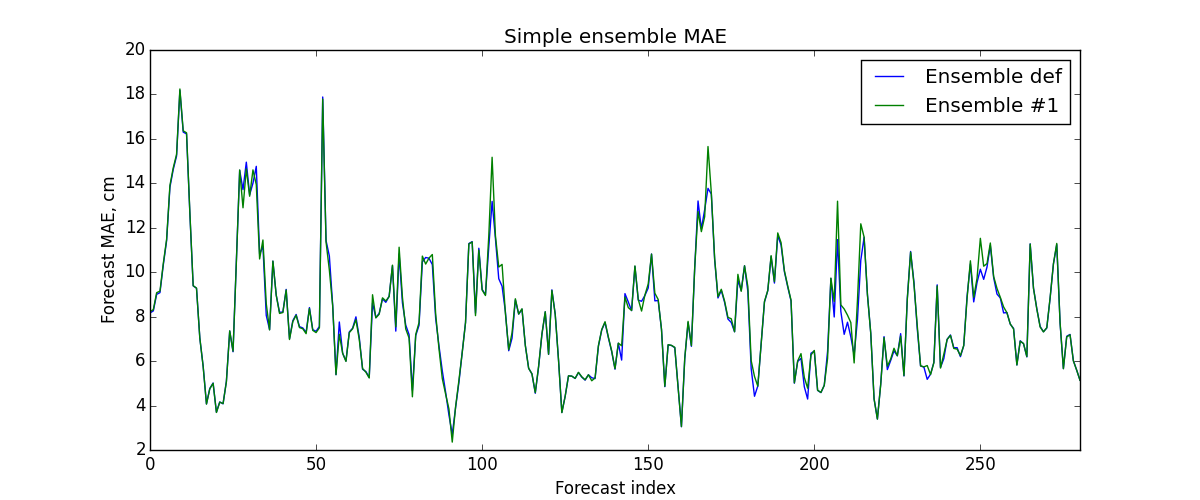
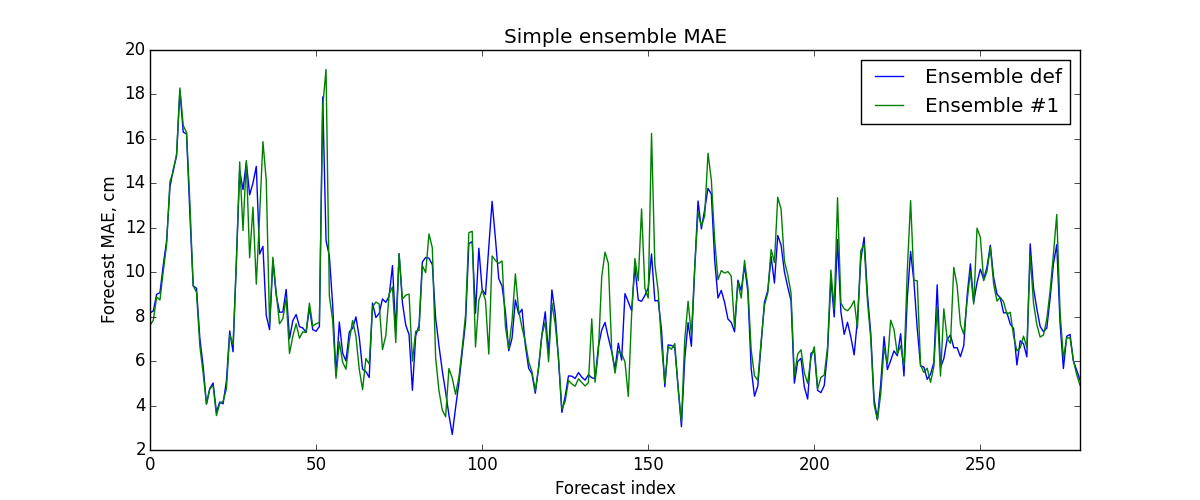
V scaling, height score

diff --git a/peaks-compare.py b/peaks-compare.py
@@ -1,7 +1,9 @@
+from scipy.stats import gaussian_kde
 import numpy as np
 import scipy.interpolate as interp
 import matplotlib.pyplot as plt
 import math as mt
+from sklearn.neighbors.kde import KernelDensity
 
 s1 = np.loadtxt('data\\ensemble-forecasts\\2013102012-BSM-WOWC-HIRLAM-S1.txt')
 s2 = np.loadtxt('data\\ensemble-forecasts\\2013102012-BALTP-90M-GFS-S1.txt')[:, 0:61]
@@ -45,6 +47,17 @@ def lse_coeff(fcs, start_index, stop_index, w):
     b[len(fcs)] = np.sum(w*m_fc[start_index:stop_index+1, 1:T+1])
     a[len(fcs), len(fcs)] = np.sum(w)
     return np.linalg.solve(a, b)
+
+
+def forecast_peak_error(fc, msk_l):
+    msk_b = np.ones(len(fc), dtype=bool)
+    msk_b[msk_l] = 0
+    max_l_err = np.amax(fc, axis=1) - np.amax(m_fc, axis=1)
+    max_t_err = (np.argmax(fc, axis=1) - np.argmax(m_fc, axis=1)).astype(float)
+    msk_add = (max_l_err > 20) | (max_l_err < -20) | (max_t_err > 10) | (max_t_err < -10)
+    max_l_err[msk_b | msk_add] = np.nan
+    max_t_err[msk_b | msk_add] = np.nan
+    return np.vstack((max_t_err, max_l_err))
 
 
 def forecast_wmae(fc, pl):
@@ -92,7 +105,6 @@ plt.savefig('pics\\simple-ensemble-wmae.png')
 plt.close()
 
 
-
 def transform_forecast(fc, original_peak, target_peak, scale_vertical):
     # Full scale
     # t_src_nodes = [-1, np.round(original_peak[1] - original_peak[2] * original_peak[3]), np.round(original_peak[1]), np.round(original_peak[1] + original_peak[2] * (1.0 - original_peak[3])), T + 1]
@@ -104,16 +116,36 @@ def transform_forecast(fc, original_peak, target_peak, scale_vertical):
     p_end = min(p_end, T)
     t_src_nodes = [-1, p_start, np.round(original_peak[1]), p_end, T + 1]
     t_dst_nodes = [-1, p_start, np.round(target_peak[1]), p_end, T + 1]
-    scale = np.full(fc.shape, 1)
-    if scale_vertical:
-        for t_fc in range(T + 1):
-            if t_fc == t_src_nodes[2]:
-                scale[t_fc] = target_peak[0] / original_peak[0]
-            if (t_fc > t_src_nodes[1]) and (t_fc < t_src_nodes[2]):
-                scale[t_fc] = (target_peak[0] / original_peak[0]) * (t_fc - t_src_nodes[1]) / (t_src_nodes[2] - t_src_nodes[1])
-            if (t_fc > t_src_nodes[2]) and (t_fc < t_src_nodes[3]):
-                scale[t_fc] = (target_peak[0] / original_peak[0]) * (t_src_nodes[3] - t_fc) / (t_src_nodes[3] - t_src_nodes[2])
-    l_res = fc * scale
+    # multiplication scale
+    # scale = np.full(fc.shape, 1)
+    # mult = target_peak[0] / original_peak[0]
+    # if scale_vertical:
+    #     for t_fc in range(T + 1):
+    #         if t_fc == t_src_nodes[2]:
+    #             scale[t_fc] = mult
+    #         if (t_fc > t_src_nodes[1]) and (t_fc < t_src_nodes[2]):
+    #             scale[t_fc] = mult * (t_fc - t_src_nodes[1]) / (t_src_nodes[2] - t_src_nodes[1])
+    #         if (t_fc > t_src_nodes[2]) and (t_fc < t_src_nodes[3]):
+    #             scale[t_fc] = mult * (t_src_nodes[3] - t_fc) / (t_src_nodes[3] - t_src_nodes[2])
+    # l_res = fc * scale
+    # additive scale
+    # scale = np.full(fc.shape, 0)
+    # add = target_peak[0] - original_peak[0]
+    # if scale_vertical:
+    #     for t_fc in range(T + 1):
+    #         if t_fc == t_src_nodes[2]:
+    #             scale[t_fc] = add
+    #         if (t_fc > t_src_nodes[1]) and (t_fc < t_src_nodes[2]):
+    #             scale[t_fc] = add * (t_fc - t_src_nodes[1]) / (t_src_nodes[2] - t_src_nodes[1])
+    #         if (t_fc > t_src_nodes[2]) and (t_fc < t_src_nodes[3]):
+    #             scale[t_fc] = add * (t_src_nodes[3] - t_fc) / (t_src_nodes[3] - t_src_nodes[2])
+    # l_res = fc + scale
+    # additive all scale
+    scale = target_peak[0] - original_peak[0]
+    l_res = fc + scale
+
+
+
     l_res = np.concatenate(([l_res[0]], l_res, [l_res[-1]]))
     t_res = np.array([])
     for node_i in range(4):
@@ -142,7 +174,7 @@ t_idx = np.arange(0, 61)
 colors = ('b', 'g', 'r')
 peak_l = [pLevel, pLevel, pLevel]
 for i in range(len(p_flt)):
-    plt.figure(i, figsize=(12, 9))
+    # plt.figure(i, figsize=(12, 9))
     params = []
     res_params = pc[:, 3].flatten()
     for src_i in range(3):
@@ -150,21 +182,21 @@ for i in range(len(p_flt)):
         p2 = [p1[1], p1[0], p1[2] + p1[3], p1[2] / (p1[2] + p1[3])]
         params += [p2]
         res_params = res_params + np.array(p2) * pc[:, src_i].flatten()
-        plt.plot(t_idx, src_set[src_i][p_flt[i, 0]], colors[src_i] + '-')
-    plt.plot(t_idx, m_fc[p_flt[i, 0]], 'o', color='k')
+        # plt.plot(t_idx, src_set[src_i][p_flt[i, 0]], colors[src_i] + '-')
+    # plt.plot(t_idx, m_fc[p_flt[i, 0]], 'o', color='k')
     peak_t = [res_params[1] - res_params[2] * res_params[3], res_params[1], res_params[1] + res_params[2] * (1.0 - res_params[3])]
     peak_l[1] = res_params[0]
-    plt.plot(peak_t, peak_l, '^', markersize=10)
-    plt.plot(t_idx, fc_def[p_flt[i, 0]], 'k-')
+    # plt.plot(peak_t, peak_l, '^', markersize=10)
+    # plt.plot(t_idx, fc_def[p_flt[i, 0]], 'k-')
     e_fc = np.full(T + 1, c[3])
     for src_i in range(3):
-        src_set[src_i][p_flt[i, 0]] = transform_forecast(src_set[src_i][p_flt[i, 0]], params[src_i], res_params, False)
-        plt.plot(t_idx, src_set[src_i][p_flt[i, 0]], colors[src_i] + '--')
+        src_set[src_i][p_flt[i, 0]] = transform_forecast(src_set[src_i][p_flt[i, 0]], params[src_i], res_params, True)
+        # plt.plot(t_idx, src_set[src_i][p_flt[i, 0]], colors[src_i] + '--')
         e_fc += src_set[src_i][p_flt[i, 0]] * c[src_i]
-    plt.plot(t_idx, e_fc, 'k--')
-    plt.xlim([0, T])
-    plt.savefig('pics\\all-forecasts\\forecast-' + str(i).zfill(3) + '.png')
-    plt.close()
+    # plt.plot(t_idx, e_fc, 'k--')
+    # plt.xlim([0, T])
+    # plt.savefig('pics\\all-forecasts-lat-scale\\forecast-' + str(i).zfill(3) + '.png')
+    # plt.close()
 
 
 c = lse_coeff(src_set, 0, N - 1, w)
@@ -191,4 +223,74 @@ plt.xlabel('Forecast index')
 plt.ylabel('WMAE (' + str(pLevel) + ' cm), cm')
 plt.xlim([0, N - 1])
 plt.savefig('pics\\ensemble-1-wmae.png')
+plt.close()
+
+plt.figure(1, figsize=(12, 5))
+fc_def_err = forecast_peak_error(fc_def, np.array(p_flt[:, 0]).flatten().astype(int))
+fc_1_err = forecast_peak_error(fc_1, np.array(p_flt[:, 0]).flatten().astype(int))
+plt.plot(indexRange, fc_def_err[0], 'o-')
+plt.plot(indexRange, fc_1_err[0], 'o-')
+plt.legend(['Ensemble def', 'Ensemble #1'])
+plt.xlabel('Forecast index')
+plt.ylabel('Peak time error, h')
+plt.xlim([0, N - 1])
+plt.savefig('pics\\ensemble-1-pet.png')
+plt.close()
+
+plt.figure(1, figsize=(12, 5))
+plt.plot(indexRange, fc_def_err[1], 'o-')
+plt.plot(indexRange, fc_1_err[1], 'o-')
+plt.legend(['Ensemble def', 'Ensemble #1'])
+plt.xlabel('Forecast index')
+plt.ylabel('Peak level error, cm')
+plt.xlim([0, N - 1])
+plt.savefig('pics\\ensemble-1-pel.png')
+plt.close()
+
+plt.figure(1, figsize=(8, 6))
+nan_filter = ~np.isnan(fc_def_err[1]) & ~np.isnan(fc_1_err[1])
+lim = [-30, 30]
+# gkde = gaussian_kde(fc_def_err[1][nan_filter])
+x = np.linspace(lim[0], lim[1], 100)
+# pdf = gkde(x)
+# plt.plot(x, pdf, linewidth=2, color='b')
+plt.hist(fc_def_err[1][nan_filter], histtype='step', normed=True, color='b')
+kde = KernelDensity(kernel='gaussian', bandwidth=2).fit(np.array(fc_def_err[1][nan_filter]).reshape(-1, 1))
+plt.plot(x, np.exp(kde.score_samples(x.reshape(-1, 1))), linewidth=2, color='b')
+# gkde = gaussian_kde(fc_1_err[1][nan_filter])
+# pdf = gkde(x)
+# plt.plot(x, pdf, linewidth=2, color='r')
+plt.hist(fc_1_err[1][nan_filter], histtype='step', normed=True, color='r')
+kde = KernelDensity(kernel='gaussian', bandwidth=2).fit(np.array(fc_1_err[1][nan_filter]).reshape(-1, 1))
+plt.plot(x, np.exp(kde.score_samples(x.reshape(-1, 1))), linewidth=2, color='r')
+plt.legend(['Ensemble def', 'Ensemble #1'])
+plt.xlabel('Peak level error, cm')
+plt.ylabel('PDF')
+plt.savefig('pics\\ensemble-1-pel-pdf.png')
+plt.close()
+
+plt.figure(1, figsize=(8, 6))
+nan_filter = ~np.isnan(fc_def_err[0]) & ~np.isnan(fc_1_err[0])
+print('Error def (T, L): ')
+print(np.mean(fc_def_err[:, nan_filter], axis=1))
+print('Error 1 (T, L): ')
+print(np.mean(fc_1_err[:, nan_filter], axis=1))
+lim = [-10, 10]
+# gkde = gaussian_kde(fc_def_err[0][nan_filter])
+x = np.linspace(lim[0], lim[1], 100)
+# pdf = gkde(x)
+# plt.plot(x, pdf, linewidth=2, color='b')
+plt.hist(fc_def_err[0][nan_filter], histtype='step', normed=True, color='b')
+kde = KernelDensity(kernel='gaussian', bandwidth=0.5).fit(np.array(fc_def_err[0][nan_filter]).reshape(-1, 1))
+plt.plot(x, np.exp(kde.score_samples(x.reshape(-1, 1))), linewidth=2, color='b')
+# gkde = gaussian_kde(fc_1_err[0][nan_filter])
+# pdf = gkde(x)
+# plt.plot(x, pdf, linewidth=2, color='r')
+plt.hist(fc_1_err[0][nan_filter], histtype='step', normed=True, color='r')
+kde = KernelDensity(kernel='gaussian', bandwidth=0.5).fit(np.array(fc_1_err[0][nan_filter]).reshape(-1, 1))
+plt.plot(x, np.exp(kde.score_samples(x.reshape(-1, 1))), linewidth=2, color='r')
+plt.legend(['Ensemble def', 'Ensemble #1'])
+plt.xlabel('Peak time error, h')
+plt.ylabel('PDF')
+plt.savefig('pics\\ensemble-1-pet-pdf.png')
 plt.close()
